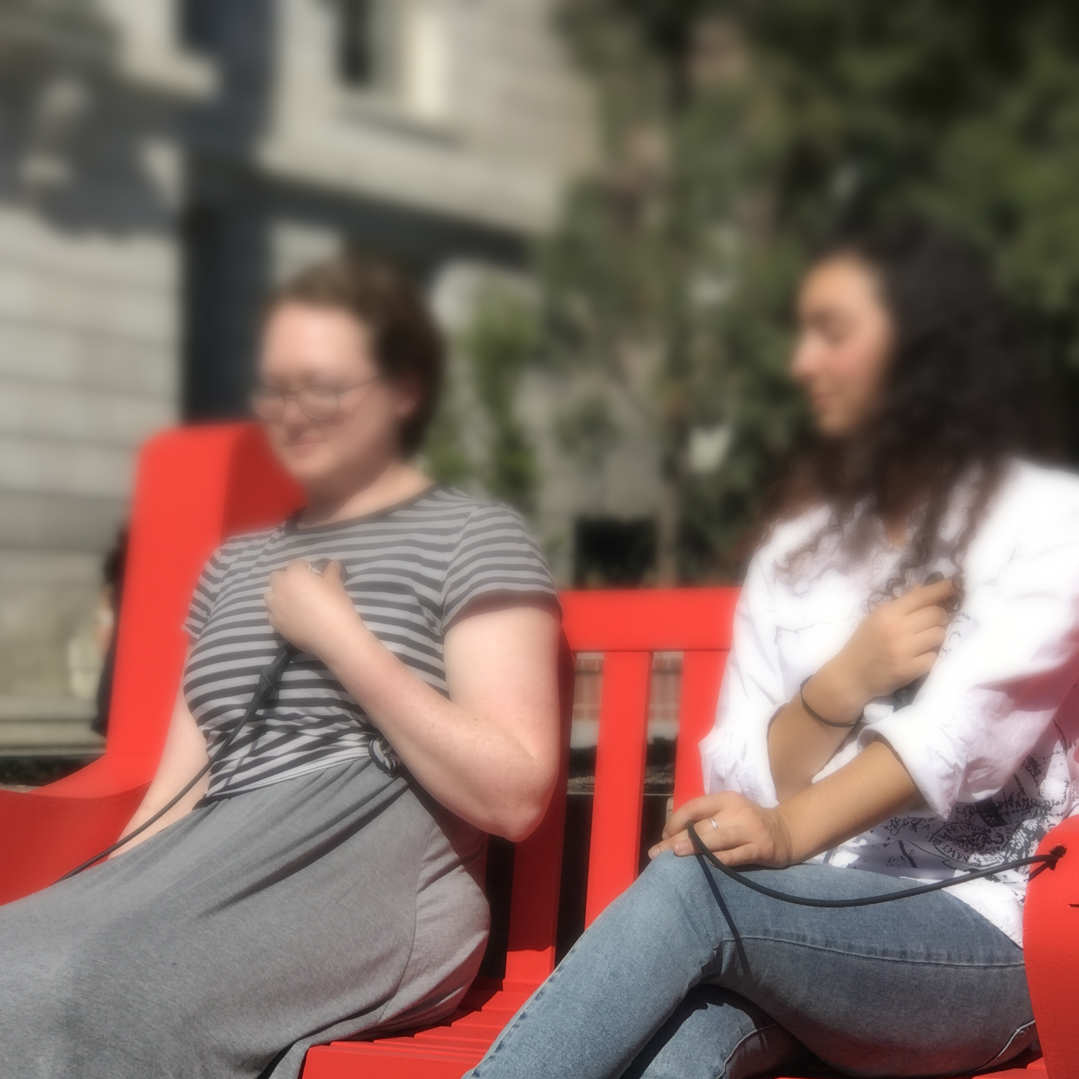
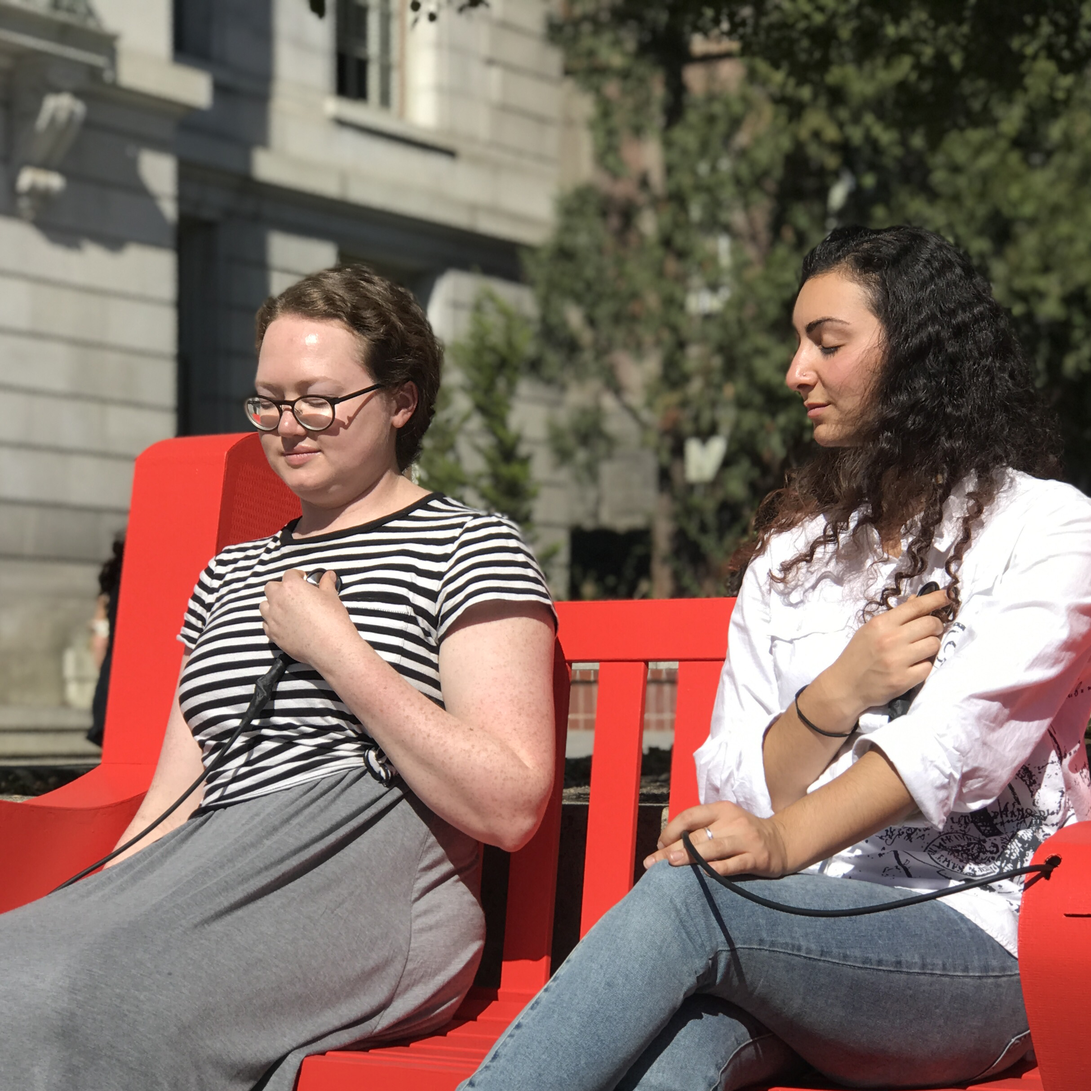
unblurred heart sounds bench image

diff --git a/projects/heart_sounds_bench.html b/projects/heart_sounds_bench.html
@@ -39,7 +39,7 @@
 
 <img src="/static/img/largest/red_bench.jpg">
 <p class="caption">
-Benches invite rest and taking in one's surroundings. Instead of efficiency or surveillance, how might biosensing technology be enrolled to support this simple yet foundational aspect of public space? Image blurred for privacy.
+Benches invite rest and taking in one's surroundings. Instead of efficiency or surveillance, how might biosensing technology be enrolled to support this simple yet foundational aspect of public space?
 </p>
 
 

diff --git a/templates/heart_sounds_bench.html b/templates/heart_sounds_bench.html
@@ -4,7 +4,7 @@
 
 <img src="/static/img/largest/red_bench.jpg">
 <p class="caption">
-Benches invite rest and taking in one's surroundings. Instead of efficiency or surveillance, how might biosensing technology be enrolled to support this simple yet foundational aspect of public space? Image blurred for privacy.
+Benches invite rest and taking in one's surroundings. Instead of efficiency or surveillance, how might biosensing technology be enrolled to support this simple yet foundational aspect of public space?
 </p>
 
 
